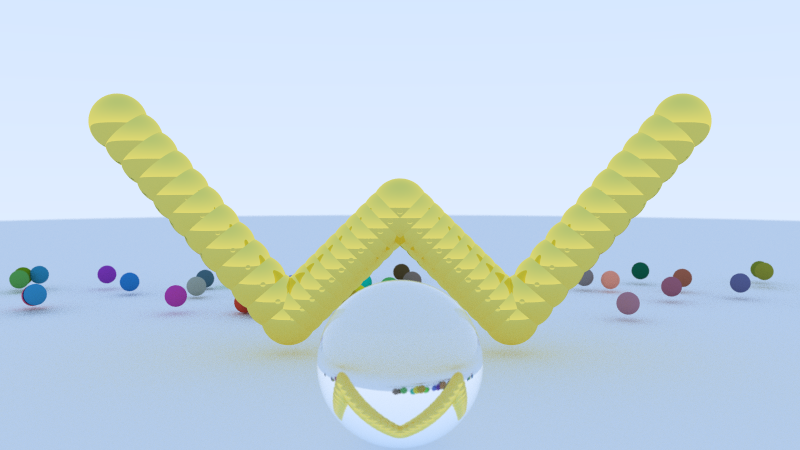
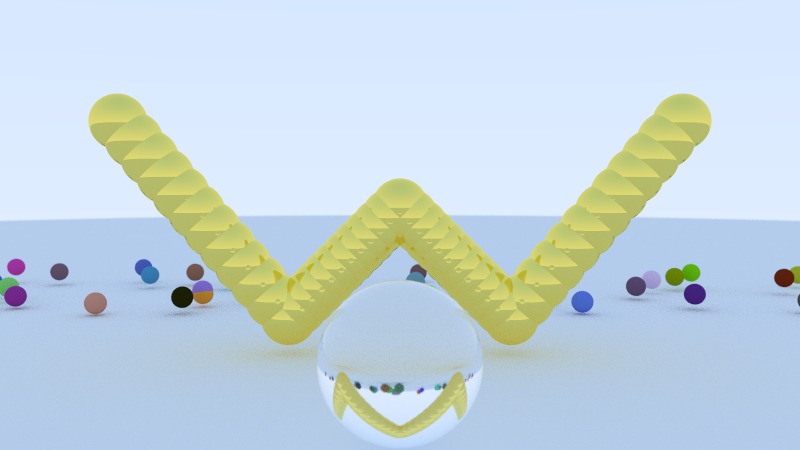
feat: tile-based multi-threaded rendering, 7x speedup on 8 threads (30x total)

diff --git a/src/camera.h b/src/camera.h
@@ -9,6 +9,9 @@
 #include <string>
 #include <iostream>
 #include <chrono>
+#include <atomic>
+#include <thread>
+#include <vector>
 
 class camera {
   public:
@@ -23,23 +26,65 @@ class camera {
     double defocus_angle = 0;    
     double focus_dist    = 10;   
     
-    void render(const hittable& world, const std::string& output_filename = "output.png") {
+void render(const hittable& world, const std::string& output_filename = "output.png") {
     initialize();
 
     auto start = std::chrono::high_resolution_clock::now();
 
     image_writer img(image_width, image_height);
 
-    for (int j = 0; j < image_height; j++) {
-        std::clog << "\rScanlines remaining: " << (image_height - j) << ' ' << std::flush;
-        for (int i = 0; i < image_width; i++) {
-            color pixel_color(0, 0, 0);
-            for (int sample = 0; sample < samples_per_pixel; sample++) {
-                ray r = get_ray(i, j);
-                pixel_color += ray_color(r, max_depth, world);
+
+    unsigned int num_threads = std::thread::hardware_concurrency();
+    if (num_threads == 0) num_threads = 4;
+
+
+    const int tile_size = 32;
+    const int tiles_x = (image_width + tile_size - 1) / tile_size;
+    const int tiles_y = (image_height + tile_size - 1) / tile_size;
+    const int total_tiles = tiles_x * tiles_y;
+
+
+    std::atomic<int> next_tile{0};
+
+    std::clog << "Rendering " << image_width << "x" << image_height 
+              << " with " << num_threads << " threads, " 
+              << total_tiles << " tiles...\n";
+
+    auto worker = [&]() {
+        while (true) {
+            int tile_idx = next_tile.fetch_add(1);
+            if (tile_idx >= total_tiles) break;
+
+            int tile_x = tile_idx % tiles_x;
+            int tile_y = tile_idx / tiles_x;
+
+            int x_start = tile_x * tile_size;
+            int y_start = tile_y * tile_size;
+            int x_end = std::min(x_start + tile_size, image_width);
+            int y_end = std::min(y_start + tile_size, image_height);
+
+            for (int j = y_start; j < y_end; j++) {
+                for (int i = x_start; i < x_end; i++) {
+                    color pixel_color(0, 0, 0);
+                    for (int sample = 0; sample < samples_per_pixel; sample++) {
+                        ray r = get_ray(i, j);
+                        pixel_color += ray_color(r, max_depth, world);
+                    }
+                    img.write_pixel(i, j, pixel_color, pixel_samples_scale);
+                }
             }
-            img.write_pixel(i, j, pixel_color, pixel_samples_scale);
         }
+    };
+
+
+    std::vector<std::thread> threads;
+    threads.reserve(num_threads);
+    for (unsigned int t = 0; t < num_threads; t++) {
+        threads.emplace_back(worker);
+    }
+
+    for (auto& t : threads) {
+        t.join();
     }
 
     auto end = std::chrono::high_resolution_clock::now();
@@ -47,8 +92,9 @@ class camera {
 
     img.save_png(output_filename);
 
-    std::clog << "\rDone in " << duration.count() << " seconds. Saved to " << output_filename << "\n";
-    }
+    std::clog << "Done in " << duration.count() << " seconds using " 
+              << num_threads << " threads. Saved to " << output_filename << "\n";
+  }
 
   private:
     int    image_height;

diff --git a/src/main.cpp b/src/main.cpp
@@ -6,7 +6,6 @@
 #include "rtweekend.h"
 #include "sphere.h"
 
-
 void add_sphere_line(hittable_list& world,
                      const point3& start,
                      const point3& end,
@@ -23,30 +22,19 @@ void add_sphere_line(hittable_list& world,
 int main() {
     hittable_list world;
 
-
     auto ground = make_shared<lambertian>(color(0.85, 0.85, 0.85));
     world.add(make_shared<sphere>(point3(0, -1000, 0), 1000, ground));
 
-
     auto w_material = make_shared<metal>(color(1.0, 0.84, 0.2), 0.0);
 
-    double y_top = 2.5;
-    double y_bot = 0.4;
-    double x_far = 3.0;
-    double x_mid = 1.2;
-    double y_peak = 1.6;
-    double sphere_r = 0.3;
+    double y_top = 2.5, y_bot = 0.4, x_far = 3.0;
+    double x_mid = 1.2, y_peak = 1.6, sphere_r = 0.3;
     int per_segment = 12;
 
-    add_sphere_line(world, point3(-x_far, y_top, 0), point3(-x_mid, y_bot, 0),
-                    sphere_r, per_segment, w_material);
-    add_sphere_line(world, point3(-x_mid, y_bot, 0), point3(0, y_peak, 0),
-                    sphere_r, per_segment, w_material);
-    add_sphere_line(world, point3(0, y_peak, 0), point3(x_mid, y_bot, 0),
-                    sphere_r, per_segment, w_material);
-    add_sphere_line(world, point3(x_mid, y_bot, 0), point3(x_far, y_top, 0),
-                    sphere_r, per_segment, w_material);
-
+    add_sphere_line(world, point3(-x_far, y_top, 0), point3(-x_mid, y_bot, 0), sphere_r, per_segment, w_material);
+    add_sphere_line(world, point3(-x_mid, y_bot, 0), point3(0, y_peak, 0),      sphere_r, per_segment, w_material);
+    add_sphere_line(world, point3(0, y_peak, 0),     point3(x_mid, y_bot, 0),   sphere_r, per_segment, w_material);
+    add_sphere_line(world, point3(x_mid, y_bot, 0),  point3(x_far, y_top, 0),   sphere_r, per_segment, w_material);
 
     for (int i = 0; i < 40; i++) {
         double bx = random_double(-7, 7);
@@ -57,12 +45,10 @@ int main() {
         world.add(make_shared<sphere>(point3(bx, by, bz), 0.15, mat));
     }
 
-
     auto glass = make_shared<dielectric>(1.5);
     world.add(make_shared<sphere>(point3(0, 0.6, 3), 0.6, glass));
 
     world = hittable_list(make_shared<bvh_node>(world));
-
 
     camera cam;
     cam.aspect_ratio      = 16.0 / 9.0;

diff --git a/src/rtweekend.h b/src/rtweekend.h
@@ -24,8 +24,8 @@ inline double degrees_to_radians(double degrees) {
 }
 
 inline double random_double() {
+    thread_local std::mt19937 generator{std::random_device{}()};
     static std::uniform_real_distribution<double> distribution(0.0, 1.0);
-    static std::mt19937 generator;
     return distribution(generator);
 }
 
